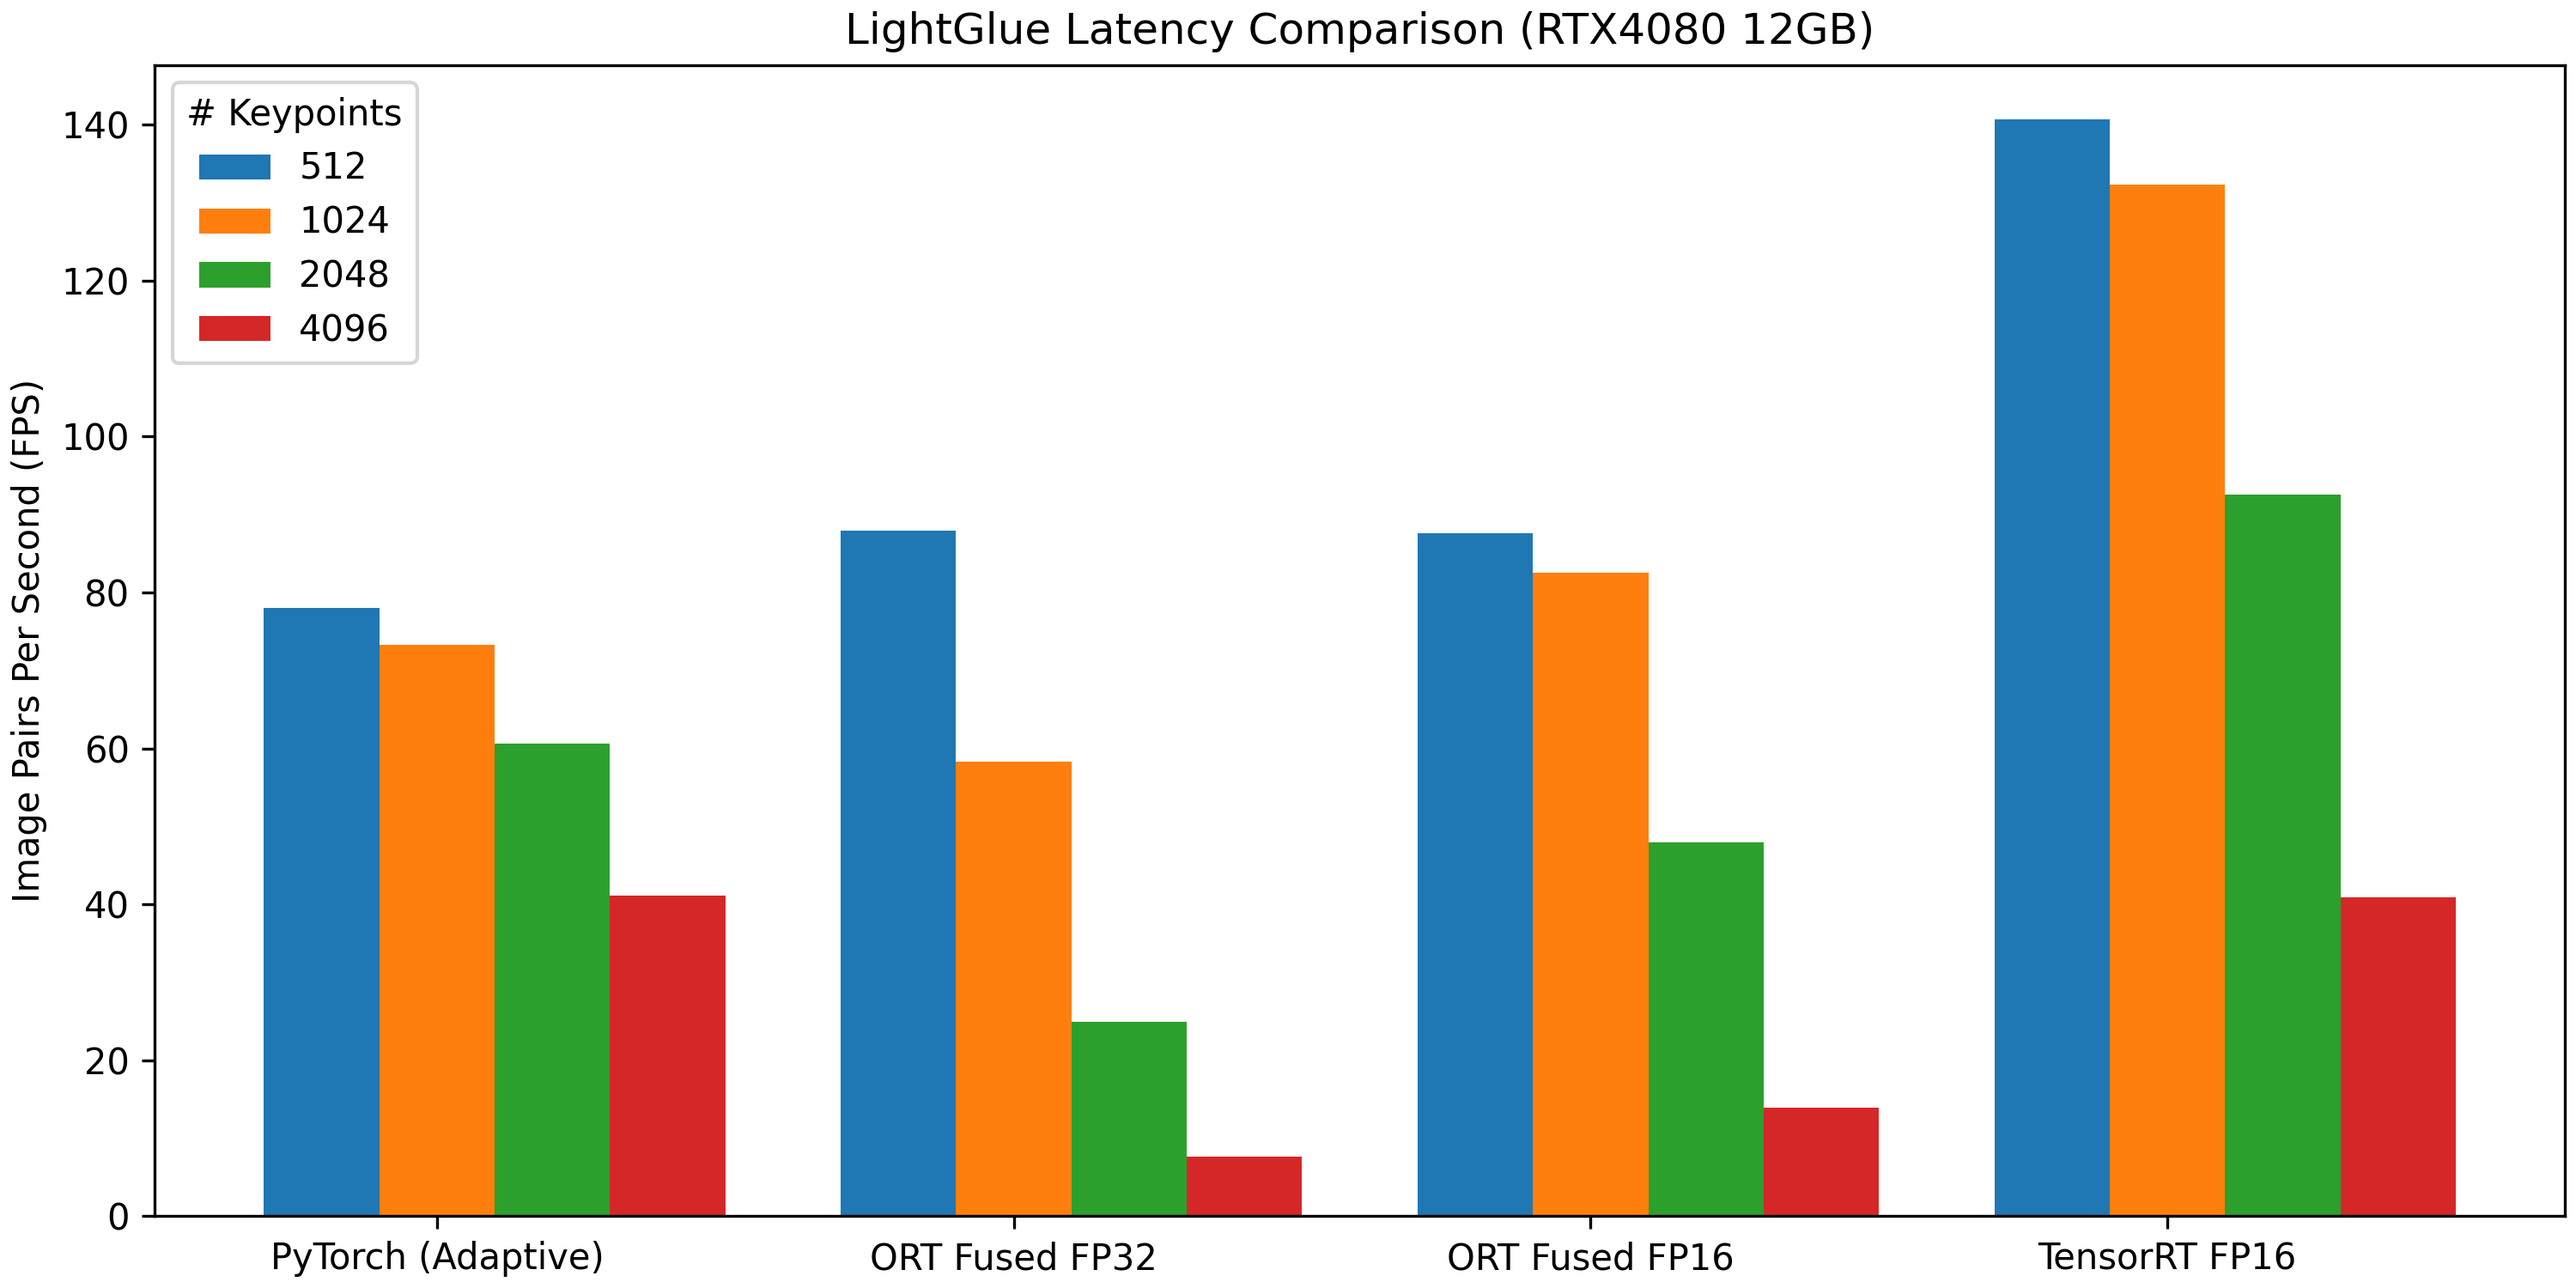
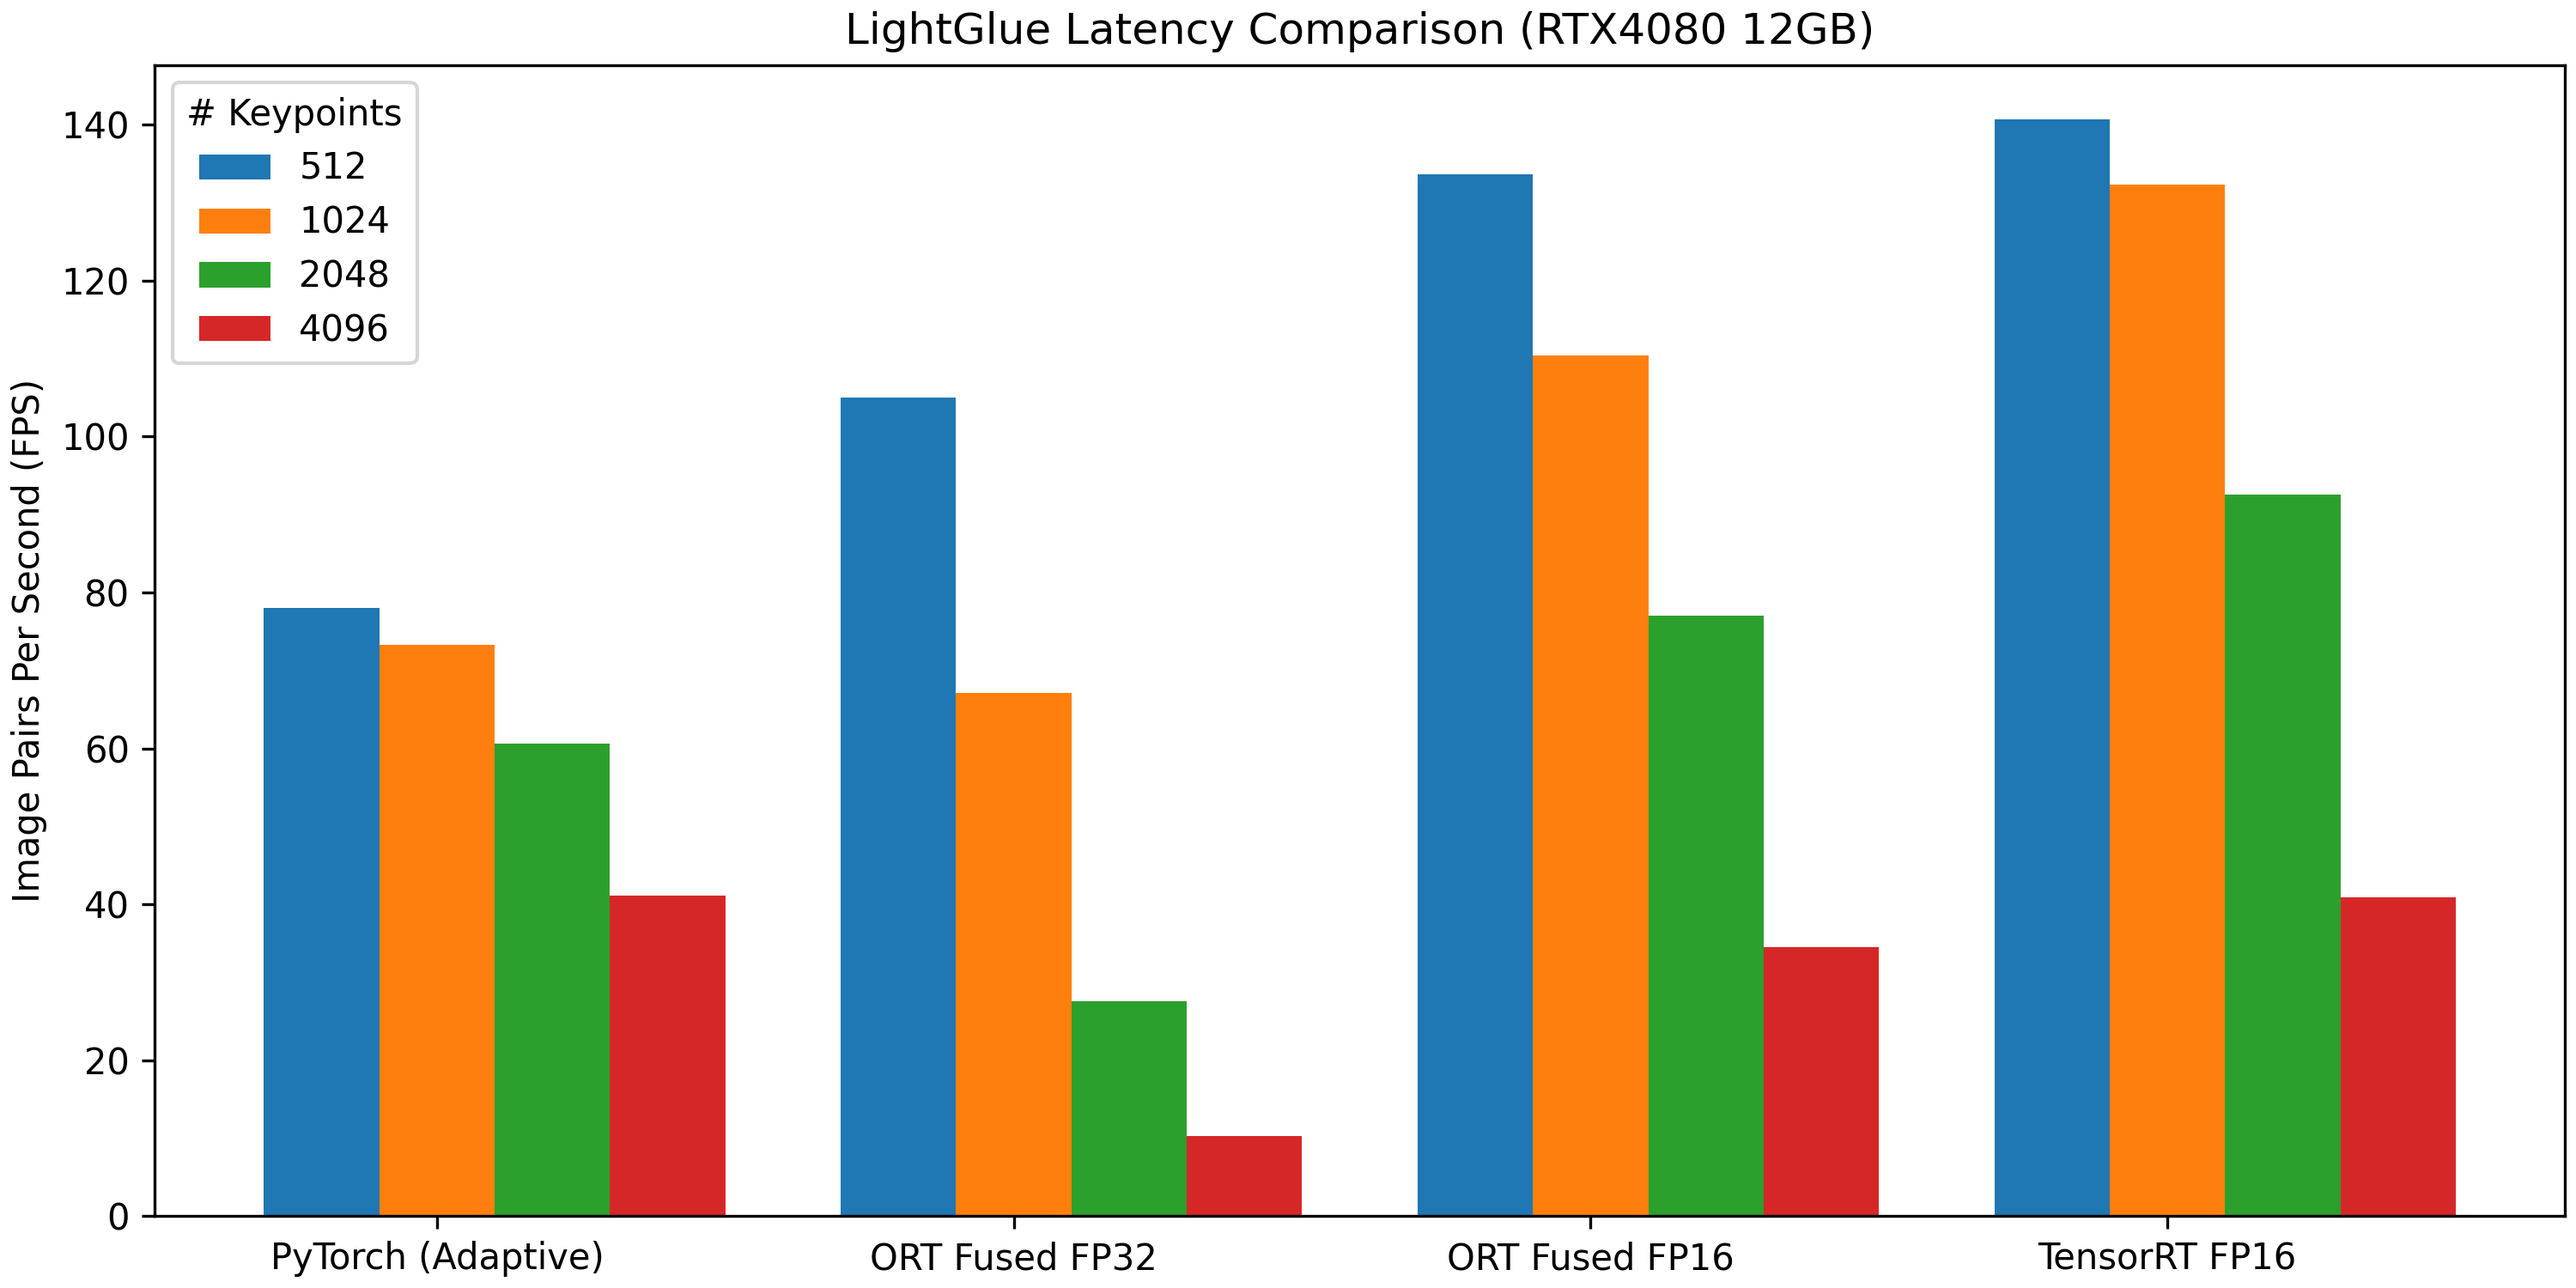
optim: topk trick

diff --git a/lightglue_onnx/lightglue.py b/lightglue_onnx/lightglue.py
@@ -203,21 +203,29 @@ class MatchAssignment(nn.Module):
 
 def filter_matches(scores: torch.Tensor, th: float):
     """obtain matches from a log assignment matrix [BxMxN]"""
-    max0, max1 = scores.max(2), scores.max(1)
-    m0, m1 = max0.indices, max1.indices
+    max0 = torch.topk(scores, k=1, dim=2, sorted=False)  # scores.max(2)
+    max1 = torch.topk(scores, k=1, dim=1, sorted=False)  # scores.max(1)
+    m0, m1 = max0.indices[:, :, 0], max1.indices[:, 0, :]
     indices0 = torch.arange(m0.shape[1], device=m0.device)[None]
-    indices1 = torch.arange(m1.shape[1], device=m1.device)[None]
+    # indices1 = torch.arange(m1.shape[1], device=m1.device)[None]
     mutual0 = indices0 == m1.gather(1, m0)
-    mutual1 = indices1 == m0.gather(1, m1)
-    max0_exp = max0.values.exp()
+    # mutual1 = indices1 == m0.gather(1, m1)
+    max0_exp = max0.values[:, :, 0].exp()
     zero = max0_exp.new_tensor(0)
     mscores0 = torch.where(mutual0, max0_exp, zero)
-    mscores1 = torch.where(mutual1, mscores0.gather(1, m1), zero)
-    valid0 = mutual0 & (mscores0 > th)
-    valid1 = mutual1 & valid0.gather(1, m1)
-    m0 = torch.where(valid0, m0, -1)
-    m1 = torch.where(valid1, m1, -1)
-    return m0, m1, mscores0, mscores1
+    # mscores1 = torch.where(mutual1, mscores0.gather(1, m1), zero)
+    valid0 = mscores0 > th
+    # valid1 = mutual1 & valid0.gather(1, m1)
+    # m0 = torch.where(valid0, m0, -1)
+    # m1 = torch.where(valid1, m1, -1)
+    # return m0, m1, mscores0, mscores1
+
+    m_indices_0 = indices0[valid0]
+    m_indices_1 = m0[0][m_indices_0]
+
+    matches = torch.stack([m_indices_0, m_indices_1], -1)
+    mscores = mscores0[0][m_indices_0]
+    return matches, mscores
 
 
 class LightGlue(nn.Module):
@@ -346,6 +354,9 @@ class LightGlue(nn.Module):
 
         # desc0, desc1 = desc0[..., :m, :], desc1[..., :n, :]
         scores = self.log_assignment[i](desc0, desc1)
+        matches, mscores = filter_matches(scores, self.conf.filter_threshold)
+        return matches, mscores
+        # Skip unnecessary computation
         m0, m1, mscores0, mscores1 = filter_matches(scores, self.conf.filter_threshold)
 
         valid = m0[0] > -1

diff --git a/README.md b/README.md
@@ -16,6 +16,9 @@ Open Neural Network Exchange (ONNX) compatible implementation of [LightGlue: Loc
 <details>
 <summary>Changelog</summary>
 
+- **02 November 2023**: Introduce TopK-trick to optimize out ArgMax for about 30% speedup.
+- **27 October 2023**: LightGlue-ONNX added to [Kornia](https://kornia.readthedocs.io/en/latest/feature.html#kornia.feature.OnnxLightGlue)!
+- **04 October 2023**: Multihead-attention fusion optimization.
 - **19 July 2023**: Add support for TensorRT.
 - **13 July 2023**: Add support for Flash Attention.
 - **11 July 2023**: Add support for mixed precision.
@@ -125,7 +128,7 @@ The first run will take longer because TensorRT needs to initialise the `.engine
 
 ## ⏱ Inference Time Comparison
 
-In general, the adaptive PyTorch model provides more consistent latencies across the board, while the fused ORT models become slower at higher keypoint numbers due to a bottleneck in the `argmax` operator. On the other hand, the TensorRT Execution Provider can reach very low latencies, but it is also inconsistent and unpredictable. See [EVALUATION.md](/evaluation/EVALUATION.md) for technical details.
+In general, the fused ORT models can match the speed of the adaptive PyTorch model despite being non-adaptive (going through all attention layers). The PyTorch model provides more consistent latencies across the board, while the fused ORT models become slower at higher keypoint numbers due to a bottleneck in the `NonZero` operator. On the other hand, the TensorRT Execution Provider can reach very low latencies, but it is also inconsistent and unpredictable. See [EVALUATION.md](/evaluation/EVALUATION.md) for technical details.
 
 <p align="center"><a href="https://github.com/fabio-sim/LightGlue-ONNX/blob/main/evaluation/EVALUATION.md"><img src="assets/latency.png" alt="Latency Comparison" width=90%></a>
 
@@ -140,7 +143,7 @@ As the ONNX Runtime has limited support for features like dynamic control flow, 
 ### LightGlue Keypoint Matching
 
 - Since dynamic control flow has limited support in ONNX tracing, by extension, early stopping and adaptive point pruning (the `depth_confidence` and `width_confidence` parameters) are also difficult to export to ONNX.
-- Currently, the bottleneck for inference speed under ONNXRuntime is the `argmax` operator, which is placed on the CPU because it is unsupported by the CUDA Execution Provider.
+- ~~Currently, the bottleneck for inference speed under ONNXRuntime is the `ArgMax` operator, which is placed on the CPU because it is unsupported by the CUDA Execution Provider.~~ Solved using TopK-trick. Now the bottleneck is the `NonZero` operator.
 
 Additionally, the outputs of the ONNX models differ slightly from the original PyTorch models (by a small error on the magnitude of `1e-6` to `1e-5` for the scores/descriptors). Although the cause is still unclear, this could be due to differing implementations or modified dtypes.
 

diff --git a/evaluation/EVALUATION.md b/evaluation/EVALUATION.md
@@ -16,6 +16,6 @@ The measured latencies are plotted in the figure below as image pairs per second
 
 <p align="center"><a href="https://github.com/fabio-sim/LightGlue-ONNX/blob/main/evaluation/EVALUATION.md"><img src="../assets/latency.png" alt="Latency Comparison" width=100%></a>
 
-<table align="center"><thead><tr><th>Number of Keypoints</th><th>512</th><th>1024</th><th>2048</th><th>4096</th></tr><tr><th>Model</th><th colspan="4">Latency (ms)</th></tr></thead><tbody><tr><td>PyTorch (Adaptive)</td><td>12.81</td><td>13.65</td><td>16.49</td><td>24.35</td></tr><tr><td>ORT Fused FP32</td><td>11.38</td><td>17.14</td><td>40.13</td><td>130.2</td></tr><tr><td>ORT Fused FP16</td><td>11.42</td><td>12.12</td><td>20.87</td><td>71.95</td></tr><tr><td>TensorRT FP16</td><td>7.11</td><td>7.56</td><td>10.81</td><td>24.46</td></tr></tbody></table>
+<table align="center"><thead><tr><th>Number of Keypoints</th><th>512</th><th>1024</th><th>2048</th><th>4096</th></tr><tr><th>Model</th><th colspan="4">Latency (ms)</th></tr></thead><tbody><tr><td>PyTorch (Adaptive)</td><td>12.81</td><td>13.65</td><td>16.49</td><td>24.35</td></tr><tr><td>ORT Fused FP32</td><td>9.52</td><td>14.90</td><td>36.21</td><td>97.37</td></tr><tr><td>ORT Fused FP16</td><td>7.48</td><td>9.06</td><td>12.99</td><td>28.97</td></tr><tr><td>TensorRT FP16</td><td>7.11</td><td>7.56</td><td>10.81</td><td>24.46</td></tr></tbody></table>
 
-In general, the adaptive PyTorch model provides more consistent latencies across the board, while the fused ORT models become slower at higher keypoint numbers due to a bottleneck in the `argmax` operator. On the other hand, the TensorRT Execution Provider can reach very low latencies, but it is also inconsistent and unpredictable.
+In general, the fused ORT models can match the speed of the adaptive PyTorch model despite being non-adaptive (going through all attention layers). The PyTorch model provides more consistent latencies across the board, while the fused ORT models become slower at higher keypoint numbers due to a bottleneck in the `NonZero` operator. On the other hand, the TensorRT Execution Provider can reach very low latencies, but it is also inconsistent and unpredictable.

diff --git a/docs/README.zh.md b/docs/README.zh.md
@@ -16,6 +16,9 @@
 <details>
 <summary>更新</summary>
 
+- **2023年11月02日**: 使用TopK换ArgMax比较快。
+- **2023年10月27日**: Kornia支持LightGlue-ONNX。
+- **2023年10月4日**: Multihead-attention fusion。
 - **2023年7月19日**: 支持TensorRT。
 - **2023年7月13日**: 支持FlashAttention。
 - **2023年7月11日**: 支持混合精度。
@@ -118,7 +121,7 @@ CUDA_MODULE_LOADING=LAZY && python infer.py \
 
 ## 推理时间比较
 
-一般来说，自适应PyTorch模型提供了更一致的全面延迟，而融合的ORT模型由于`argmax`运算符的瓶颈，在关键点数量较高时变得更慢。 另一方面，TensorRT Execution Provider可以达到非常低的延迟，但它也是不一致且不可预测的。请参阅[EVALUATION.md](/evaluation/EVALUATION.md)。
+一般来说，自适应PyTorch模型提供了更一致的全面延迟，而融合的ORT模型由于`NonZero`运算符的瓶颈，在关键点数量较高时变得更慢。 另一方面，TensorRT Execution Provider可以达到非常低的延迟，但它也是不一致且不可预测的。请参阅[EVALUATION.md](/evaluation/EVALUATION.md)。
 
 <p align="center"><a href="https://github.com/fabio-sim/LightGlue-ONNX/blob/main/evaluation/EVALUATION.md"><img src="../assets/latency.png" alt="Latency Comparison" width=80%></a>
 
